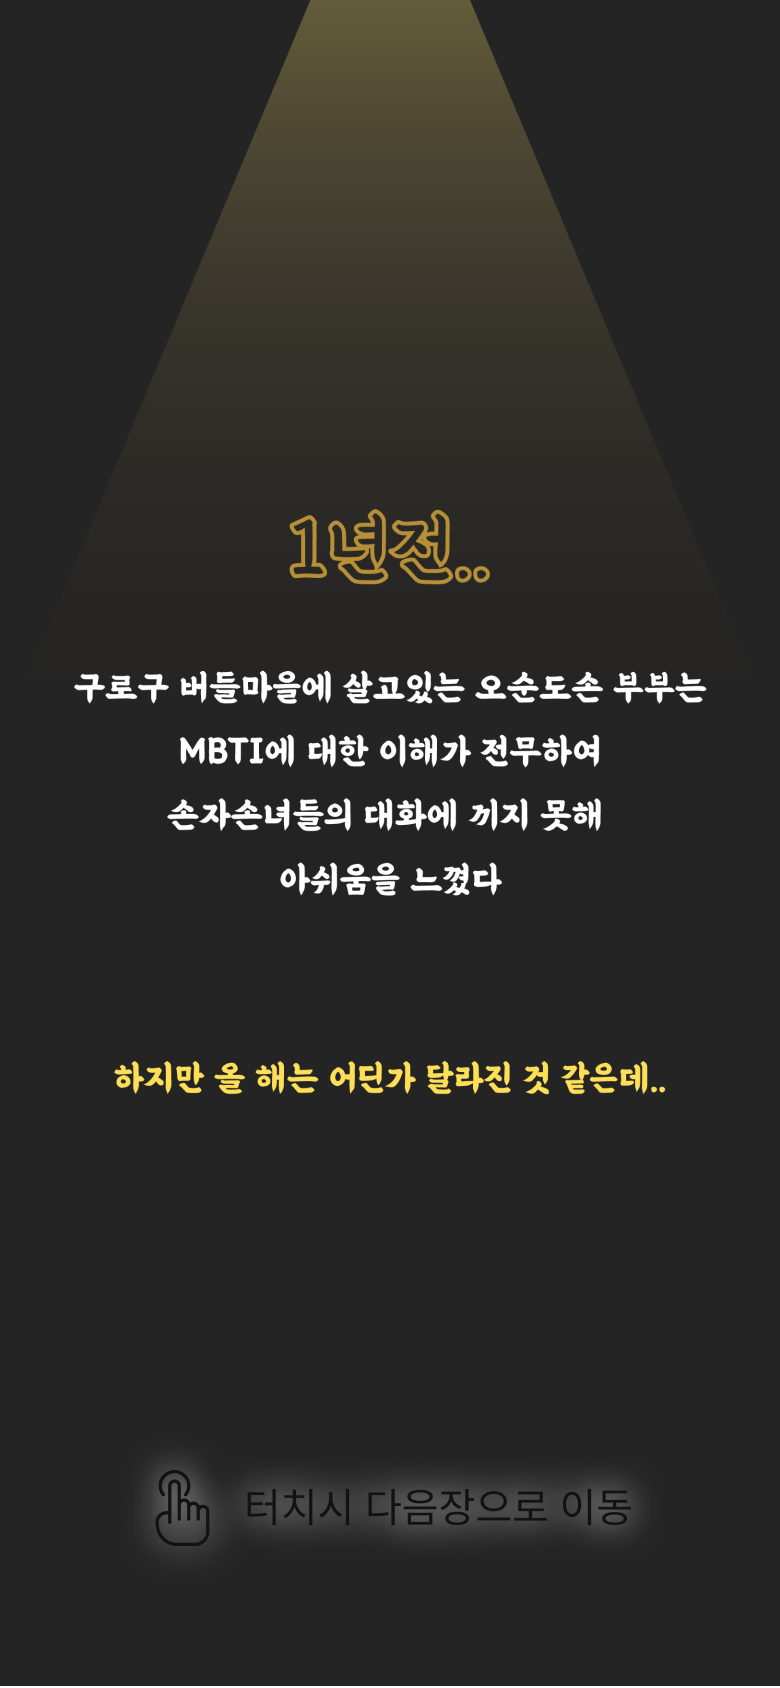
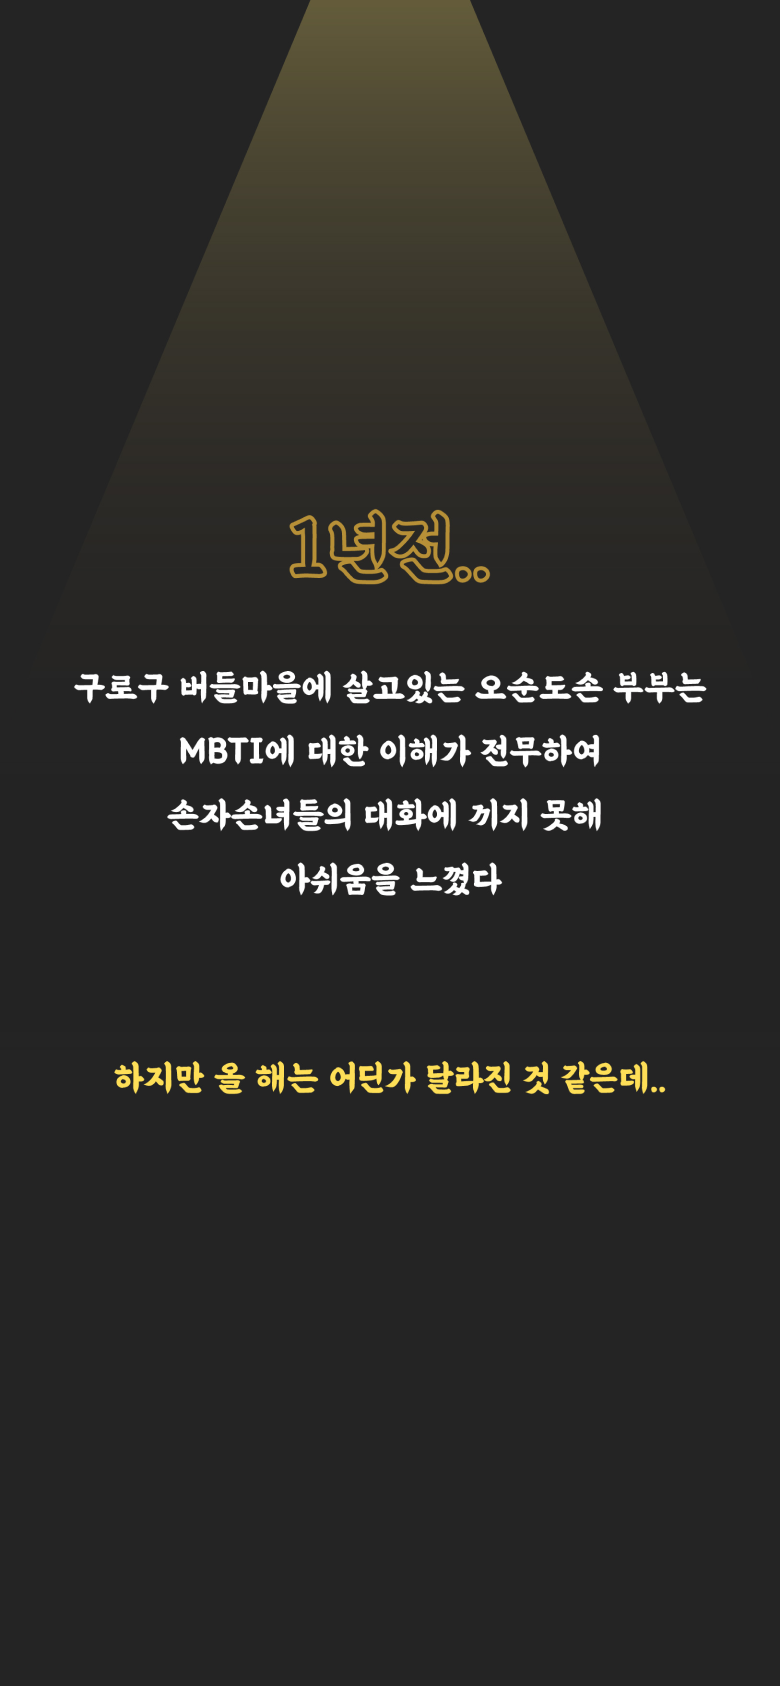
fix: img 변경

diff --git a/src/views/Event2.vue b/src/views/Event2.vue
@@ -1,6 +1,7 @@
 <template>
 <div class="container" @click="click()">
   <img class="icon" align = "left" src="../assets/backIcon.png" @click.stop="back()"> 
+  <img class="bottom" src="../assets/touch.png"> 
 </div>
 </template>
 
@@ -24,7 +25,7 @@ export default {
     min-height: 100vh;
     height: 100%;
     width: 100%;
-    background-image: url("../assets/storyPapa.png");
+    background-image: url("../assets/ev2.png");
     background-repeat: no-repeat;
     background-size: cover;
     background-position: center;
@@ -34,6 +35,14 @@ export default {
   height: 35px;
   width: 35px;
   z-index: 1;
+}
+
+.container .bottom{
+  position: absolute;
+  width: 85%;
+  bottom: 20px;
+  left: 50%;
+  transform: translate(-50%, 0);
 }
 
 </style>

diff --git a/src/views/Event1.vue b/src/views/Event1.vue
@@ -1,6 +1,7 @@
 <template>
 <div class="container" @click="click()">
   <img class="icon" align = "left" src="../assets/backIconWhite.png" @click.stop="back()"> 
+  <img class="bottom" src="../assets/touch.png"> 
 </div>
 </template>
 
@@ -26,6 +27,7 @@ export default {
     background-repeat: no-repeat;
     background-size: cover;
     background-position: center;
+    position: relative;
     color: #000000;
 }
 
@@ -34,6 +36,14 @@ export default {
   width: 35px;
   
   z-index: 1;
+}
+
+.container .bottom{
+  position: absolute;
+  width: 85%;
+  bottom: 20px;
+  left: 50%;
+  transform: translate(-50%, 0);
 }
 /* iOS only */
 @supports (-webkit-touch-callout: none) {
